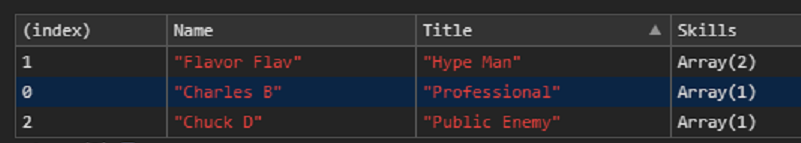
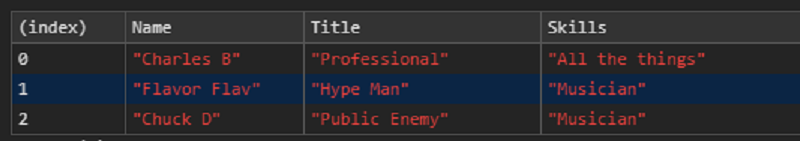
Change Skills.

diff --git a/console/tables-1.md b/console/tables-1.md
@@ -1,11 +1,11 @@
 ### Tables 
 
 ```javascript
-    // Magic to get data from some place.
+   // Magic to get data from some place.
     const people = [
-        { "Name": "Charles B", "Title": "Professional", "Skills": ["All the things"] },
-        { "Name": "Flavor Flav", "Title": "Hype Man", "Skills": ["Musician", "Television"] },
-        { "Name": "Chuck D", "Title": "Public Enemy", "Skills": ["Musician"] }
+        { "Name": "Charles B", "Title": "Professional", "Skills": "All the things" },
+        { "Name": "Flavor Flav", "Title": "Hype Man", "Skills": "Musician" },
+        { "Name": "Chuck D", "Title": "Public Enemy", "Skills": "Musician" }
     ];
 
     console.log(people); // Not helpful...

diff --git a/console/tables-2.md b/console/tables-2.md
@@ -3,9 +3,9 @@
 ```javascript
     // Magic to get data from some place.
     const people = [
-        { "Name": "Charles B", "Title": "Professional", "Skills": ["All the things"] },
-        { "Name": "Flavor Flav", "Title": "Hype Man", "Skills": ["Musician", "Television"] },
-        { "Name": "Chuck D", "Title": "Public Enemy", "Skills": ["Musician"] }
+        { "Name": "Charles B", "Title": "Professional", "Skills": "All the things" },
+        { "Name": "Flavor Flav", "Title": "Hype Man", "Skills": "Musician" },
+        { "Name": "Chuck D", "Title": "Public Enemy", "Skills": "Musician" }
     ];
 
     console.table(people, "Title");
